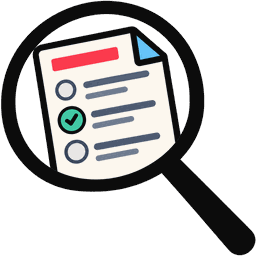
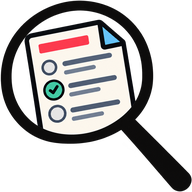
Brand: a letter's gap between the mark and the u, the mark as webp

diff --git a/src/components/site/Brand.tsx b/src/components/site/Brand.tsx
@@ -9,7 +9,7 @@ export function BrandLogo() {
   return (
     <span className="flex items-center">
       <Image
-        src="/brand/quizspace-mark.png"
+        src="/brand/quizspace-mark.webp"
         alt="Q"
         width={34}
         height={34}
@@ -17,7 +17,8 @@ export function BrandLogo() {
         priority
         className="h-[2.125rem] w-[2.125rem] shrink-0"
       />
-      <span className="-ml-2 -translate-y-[1px] text-[1.3125rem] leading-none font-semibold tracking-[-0.015em] text-ink">
+      {/* A letter's gap between the mark and the u, so the two read apart. */}
+      <span className="ml-[0.1875rem] -translate-y-[1px] text-[1.3125rem] leading-none font-semibold tracking-[-0.015em] text-ink">
         uiz Space
       </span>
     </span>
